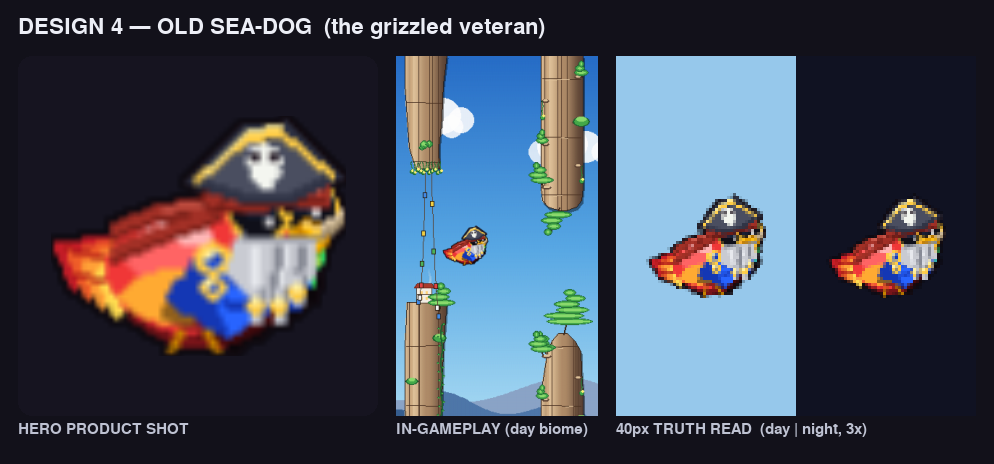
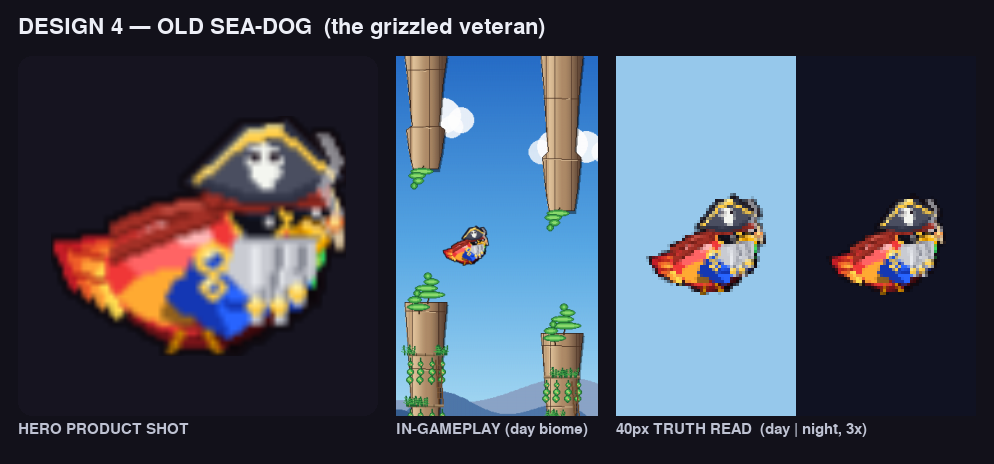
Pirate redesign: DESIGN 4 OLD SEA-DOG round 1 candidate
Grizzled-veteran pirate exploration: keeps the tricorn + gold brim +
white skull identity and layers a grey braided beard with gold bead
rings, a deep-red knotted headscarf with trailing tails, double stacked
gold hoops, and a clay pipe with an ember bowl + rising smoke wisp.
Scratch builder + 3-panel review sheet only; not registered in
store_skins.BUILDERS.

Claude-Session: https://claude.ai/code/session_01HafGQfRZVDiGkQqpJPr5Cm

diff --git a/tools/pirate_candidates/design_4.py b/tools/pirate_candidates/design_4.py
@@ -120,35 +120,6 @@ def _paint(surf, wing_angle_deg):
         pygame.draw.circle(surf, _GOLD, (tx, ty + 1), 2)
         pygame.draw.circle(surf, _GOLD_H, (tx, ty), 1)
 
-    # ── Short clay pipe gripped in the beak, the STEM poking clearly FORWARD
-    #    past the beak tip so it breaks the front silhouette, then turning up to
-    #    a small glowing bowl. Beak tip is ~(61,41); the stem roots just under it
-    #    and runs right so it sits against the open sky, not buried in the head.
-    stem_root = (59, HY + 2)
-    stem_end = (stem_root[0] + 6, stem_root[1] - 4)
-    pygame.draw.line(surf, _PIPE_CLAY_D, stem_root, stem_end, 4)
-    pygame.draw.line(surf, _PIPE_CLAY,
-                     (stem_root[0], stem_root[1] - 1),
-                     (stem_end[0], stem_end[1] - 1), 2)
-    # Bowl turns up at the forward end with a warm ember — pushed UP into clear
-    # sky above-right of the beak so it clears the narrow right canvas edge.
-    bowl = (stem_end[0] + 1, stem_end[1] - 6)
-    pygame.draw.line(surf, _PIPE_CLAY_D, stem_end, bowl, 5)
-    pygame.draw.line(surf, _PIPE_CLAY, (stem_end[0], stem_end[1] - 1),
-                     (bowl[0], bowl[1] + 1), 3)
-    pygame.draw.circle(surf, _PIPE_EMBER, (bowl[0], bowl[1] - 1), 2)
-    pygame.draw.circle(surf, (255, 210, 120), (bowl[0], bowl[1] - 1), 1)
-
-    # Smoke wisp: a taller translucent curl rising and drifting with the beat so
-    # it breaks the silhouette up-forward. Drawn on a temp surface for alpha.
-    sm = pygame.Surface(surf.get_size(), pygame.SRCALPHA)
-    wisp = [(bowl[0], bowl[1] - 3),
-            (bowl[0] + 4, bowl[1] - 9 + flick),
-            (bowl[0] - 1, bowl[1] - 15 + flick),
-            (bowl[0] + 4, bowl[1] - 21 + flick * 2)]
-    pygame.draw.lines(sm, _SMOKE, False, wisp, 3)
-    surf.blit(sm, (0, 0))
-
     # ── Battered tricorn worn on TOP of the scarf, lifted off the crown so the
     #    brim breaks the outline (same felt + gold + skull as the live pirate,
     #    kept as the anchor read). A couple of dents/nicks read it as "battered".
@@ -178,6 +149,35 @@ def _paint(surf, wing_angle_deg):
                          (sx + 1, sy + 5), (sx - 1, sy + 5)])
     pygame.draw.circle(surf, (40, 30, 40), (sx - 2, sy - 1), 1)
     pygame.draw.circle(surf, (40, 30, 40), (sx + 2, sy - 1), 1)
+
+    # ── Short clay pipe gripped in the beak, drawn LAST so nothing covers it.
+    #    The composite is only 64px wide and the beak tip already sits at x=61,
+    #    so the pipe stays within bounds: the stem dips forward-DOWN off the beak
+    #    to a bowl that turns up just shy of the right edge, with the smoke wisp
+    #    rising vertically so it breaks the front-upper silhouette into open sky.
+    stem_root = (60, HY + 1)                    # at the beak tip
+    bowl = (63, HY + 6)                         # bowl mouth, low + forward
+    pygame.draw.line(surf, _PIPE_CLAY_D, stem_root, (bowl[0], bowl[1] - 1), 4)
+    pygame.draw.line(surf, _PIPE_CLAY,
+                     (stem_root[0] - 1, stem_root[1] - 1),
+                     (bowl[0] - 1, bowl[1] - 2), 2)
+    # Bowl cup rising off the stem end with a warm ember at the mouth.
+    pygame.draw.line(surf, _PIPE_CLAY_D, (bowl[0], bowl[1]),
+                     (bowl[0] - 1, bowl[1] - 5), 4)
+    pygame.draw.line(surf, _PIPE_CLAY, (bowl[0] - 1, bowl[1] - 1),
+                     (bowl[0] - 2, bowl[1] - 5), 2)
+    pygame.draw.circle(surf, _PIPE_EMBER, (bowl[0] - 1, bowl[1] - 5), 2)
+    pygame.draw.circle(surf, (255, 220, 130), (bowl[0] - 1, bowl[1] - 5), 1)
+
+    # Smoke wisp: a translucent curl rising off the bowl, drifting with the beat
+    # so it reads as motion and breaks the upper-front outline. Alpha temp surf.
+    sm = pygame.Surface(surf.get_size(), pygame.SRCALPHA)
+    wisp = [(bowl[0] - 1, bowl[1] - 7),
+            (bowl[0] - 4, bowl[1] - 12 + flick),
+            (bowl[0] - 1, bowl[1] - 17 + flick),
+            (bowl[0] - 4, bowl[1] - 22 + flick * 2)]
+    pygame.draw.lines(sm, _SMOKE, False, wisp, 3)
+    surf.blit(sm, (0, 0))
 
 
 build = store_skins._make_skin(_paint)
